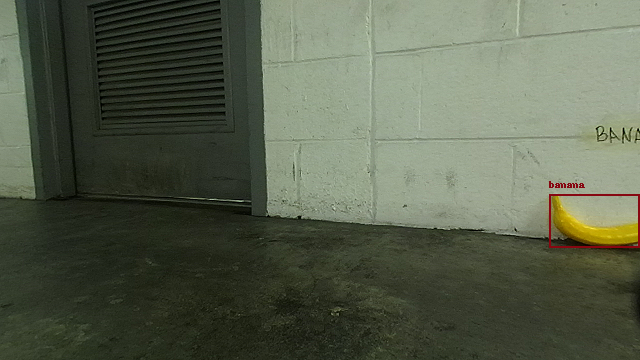
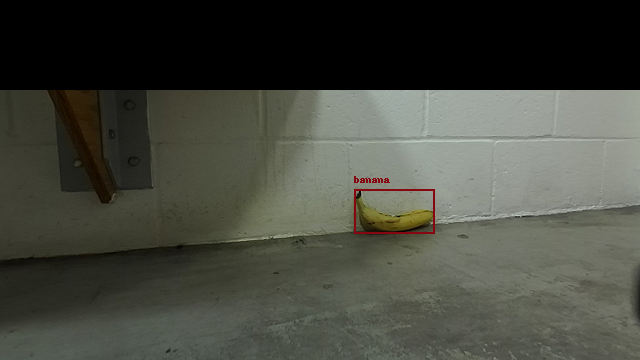
shrink ray back and forth

diff --git a/shrinkray_heist/shrinkray_heist/model/detection_node.py b/shrinkray_heist/shrinkray_heist/model/detection_node.py
@@ -14,14 +14,14 @@ from .detector import Detector #model.
 from shrinkray_heist.definitions import  Target, TripSegment, ObjectDetected, State
 from shrinkray_heist.homography_transformer import HomographyTransformer
 
-
+import time
 
 class DetectionNode(Node):
     def __init__(self):
         super().__init__("detector_node")
         # self.detector = Detector() # ON REAL RACECAR
         self.detector = Detector(yolo_dir='/home/racecar/models', from_tensor_rt=False)
-        self.detector.set_threshold(0.1)
+        self.detector.set_threshold(0.2)
         self.yolo_pub = self.create_publisher(Image, "/yolo_img", 10)
         self.image_sub = self.create_subscription(Image, "/zed/zed_node/rgb/image_rect_color", self.img_cb, 1)
         self.bridge = CvBridge()
@@ -39,12 +39,21 @@ class DetectionNode(Node):
         self.homography_transformer = HomographyTransformer() # instantiate homography transformer to get transform
         self.wheelbase_length = 0.33 # in meters
         self.count = 0
+        self.shrinkray_count = 1
         
         # self.drive_topic = self.get_parameter("drive_topic").get_parameter_value().string_value
         self.drive_pub = self.create_publisher(AckermannDriveStamped, "/vesc/high_level/input/nav_0", 10)
 
         self.get_logger().info("Shrink Ray Detector Initialized")
         
+        # for scanning for shrinkray
+        self.scan_sequence_started = False
+        self.shrinkray_active_start_time = 0
+        self.sequence_start_time = 0
+        self.scan_step = 0
+        self.angle = 0.0
+        self.direction = 1 # 1 for right, -1 for left
+
         self.debug = True
     def state_cb(self, msg):
         pass # for testing
@@ -62,6 +71,10 @@ class DetectionNode(Node):
             
             if self.shrinkray_detector_on:
                 self.get_logger().info("Detector: Shrink Ray Detector Activated")
+                
+                self.shrinkray_active_start_time = self.get_clock().now().nanoseconds / 1e9
+                self.scan_step = 0
+                self.scan_sequence_started = False
             else:
                 self.get_logger().info("Detector: Shrink Ray Detector Deactivated")
         
@@ -114,13 +127,140 @@ class DetectionNode(Node):
         self.drive_pub.publish(drive_msg)
         self.get_logger().info("Published steering angle")
         return L1
+    
+    def scan_sequence(self):
+        if not self.scan_sequence_started:
+            return
+
+        # self.scan_sequence_started = True
+
+        def send_drive(speed, angle, duration):
+            drive_msg = AckermannDriveStamped()
+            drive_msg.drive.steering_angle = speed
+            drive_msg.drive.speed = angle
+
+            end_time = self.get_clock().now().nanoseconds + int(duration * 1e9)
+            
+            while self.get_clock().now().nanoseconds < end_time:
+                self.drive_pub.publish(drive_msg)
+                self.get_logger().info(f"Scan Sequence: Driving with speed: {speed}, angle: {angle}")
+                time.sleep(0.1)
+            
+            # Stop the robot briefly
+            msg.drive.speed = 0.0
+            msg.drive.steering_angle = 0.0
+            self.drive_pub.publish(msg)
+            self.get_logger().info(f"Scan Sequence: Driving with speed: {speed}, angle: {angle}")
+            time.sleep(0.2)
+
+        # Repeat the pattern N times
+        repetitions = 3
+        for _ in range(repetitions):
+            # Step 1: Small backup
+            send_drive(-0.2, 0.0, 0.5)
+
+            # Step 2: Move forward
+            send_drive(0.2, 0.0, 0.5)
+
+            # Step 3: Turn slightly while moving forward
+            send_drive(0.2, 0.25, 0.6)
+
+        self.get_logger().info("Repeated scan maneuver completed.")
+
+    def execute_sequence(self):
+        # if not self.scan_sequence_started:
+        #     return
         
+        now = self.get_clock().now().nanoseconds / 1e9  # current time in seconds
+        elapsed = now - self.sequence_start_time
+
+        # Duration for each step in seconds
+        durations = [3.0, 2.0, 3.0, 1.0 , 3.0, 2.0, 3.0, 2.0]
+                # steps 0, 1, 2, 3, 4
+        msg = AckermannDriveStamped()
+
+        if self.scan_step == 0:
+            # Step 0: Back up
+            msg.drive.speed = -0.3
+            msg.drive.steering_angle = -0.5
+            self.get_logger().info(f"Step: {self.scan_step}, Scan Sequence: Moving with speed: {msg.drive.speed}, angle: {msg.drive.steering_angle}")
+        elif self.scan_step == 1: # pause!
+            msg.drive.speed = 0.0
+            msg.drive.steering_angle = 0.0 #self.angle
+            self.get_logger().info(f"Step: {self.scan_step}, Scan Sequence: Moving with speed: {msg.drive.speed}, angle: {msg.drive.steering_angle}")
+
+        elif self.scan_step == 2:
+            # Step 1: Move forward
+            msg.drive.speed = 0.3
+            msg.drive.steering_angle = -0.5 #self.angle
+            self.get_logger().info(f"Step: {self.scan_step}, Scan Sequence: Moving with speed: {msg.drive.speed}, angle: {msg.drive.steering_angle}")
+        elif self.scan_step == 3: # pause!
+            msg.drive.speed = 0.0
+            msg.drive.steering_angle = 0.0 #self.angle
+            self.get_logger().info(f"Step: {self.scan_step}, Scan Sequence: Moving with speed: {msg.drive.speed}, angle: {msg.drive.steering_angle}")
+
+        elif self.scan_step == 4:
+            # Step 0: Back up
+            msg.drive.speed = -0.3
+            msg.drive.steering_angle = 0.5
+            self.get_logger().info(f"Step: {self.scan_step}, Scan Sequence: Moving with speed: {msg.drive.speed}, angle: {msg.drive.steering_angle}")
+        elif self.scan_step == 5: # pause!
+            msg.drive.speed = 0.0
+            msg.drive.steering_angle = 0.0 #self.angle
+        elif self.scan_step == 6:
+            # Step 1: Move forward
+            msg.drive.speed = 0.3
+            msg.drive.steering_angle = 0.5 #self.angle
+            self.get_logger().info(f"Step: {self.scan_step}, Scan Sequence: Moving with speed: {msg.drive.speed}, angle: {msg.drive.steering_angle}")
+        elif self.scan_step == 7: # pause!
+            # Step 2: Turn slightly while moving forward
+            msg.drive.speed = 0.0 #-0.3
+            msg.drive.steering_angle = 0.0 #-self.angle
+            self.get_logger().info(f"Step: {self.scan_step}, Scan Sequence: Moving with speed: {msg.drive.speed}, angle: {msg.drive.steering_angle}")
+
+        self.drive_pub.publish(msg)
+
+        
+
+        if elapsed >= durations[self.scan_step] and self.scan_step < (len(durations)-1):
+            # Move to the next step after the duration
+            self.scan_step += 1
+            self.sequence_start_time = now
+            return "looking"
+
+        if self.scan_step == len(durations)-1:
+            self.get_logger().info("Sequence complete, uh, no banana then?")
+            return "no_banana"
+        # else:
+        #     return "looking"
+            # if self.scan_step == (len(durations)-1):
+                # Reset for next cycle
+                # self.scan_step = 0
+                # self.angle += self.direction * 0.1
+                # if abs(self.angle) > 0.3:
+                #     self.direction *= -1
+                #     self.angle += self.direction * 0.1  # Adjust within range
+                
+            # Call again for the next step if active
+            # if self.scan_sequence_started:
+            #     self.execute_sequence()
+
     def img_cb(self, img_msg):
         if not self.trafficlight_detector_on and not self.shrinkray_detector_on:
             return
 
         # Process image with CV Bridge
         image = self.bridge.imgmsg_to_cv2(img_msg, "bgr8")
+        # image = image[200:400, :]
+        # output = np.zeros_like(image)
+        # output[120:330, :] = image[120:240, :]
+        # image = output
+        output = image.copy()
+        height = output.shape[0]
+
+        # Blacken the top third
+        output[:height // 4, :] = 0 
+        image = output
         # image_rgb = self.bridge.imgmsg_to_cv2(img_msg, "rgb8")
         if self.count == 0:
             save_path = os.path.join(os.path.dirname(__file__), f"ros_imagetocv2TEST.png")
@@ -130,7 +270,33 @@ class DetectionNode(Node):
         # rgb_image = cv2.cvtColor(image, cv2.COLOR_BGR2RGB)
         # cv2.imwrite(save_path, rgb_image)
         # self.get_logger().info(f"CV BRIDGE Image: {image.shape}")
+
+        # Record how long shrink ray has been on for 
+        now = self.get_clock().now().nanoseconds / 1e9
+        if self.shrinkray_detector_on and not self.trafficlight_detector_on and ((now - self.shrinkray_active_start_time) > 5): # if no banana detected for 5 seconds, start scan sequence
+            self.get_logger().info("No banana detected for 5 seconds, starting scan sequence")
+            
+            if not self.scan_sequence_started: # so that start time set once
+                self.sequence_start_time = self.get_clock().now().nanoseconds / 1e9
+                self.scan_sequence_started = True
+            
+            # self.scan_step += 1
+              # Current time in seconds
+            scan_state = self.execute_sequence()
+            if scan_state == "no_banana":
+                
+                self.get_logger().info("Scan sequence complete, no banana detected")
         
+            # self.scan_sequence_started = True
+            # drive_msg = AckermannDriveStamped()
+            # drive_msg.drive.steering_angle = 0.2
+            # drive_msg.drive.speed = -0.3
+            # self.drive_pub.publish(drive_msg)
+            
+            # self.scan_sequence()
+            
+            self.get_logger().info("Scan sequence started")
+
         try:
             results = self.detector.predict(image) #image
             
@@ -178,6 +344,8 @@ class DetectionNode(Node):
                 
                 elif self.shrinkray_detector_on and not self.trafficlight_detector_on:
                     self.get_logger().info(f"Detected {label} at {bbox}")
+                    
+                        # self.shrinkray_active_start_time = 0
                     if label == 'banana':
                         # Get the bounding box coordinates 
                         self.shrinkray_bbox = [bbox[0], bbox[1], bbox[2], bbox[3]] # x1, y1, x2, y2 = shrinkray_bbox
@@ -191,7 +359,9 @@ class DetectionNode(Node):
                         if dist_to_shrinkray < 1.0: # in meters
                             self.get_logger().info("Arrived at shrink ray location, stopping")
                             # Save the image with the bounding box to directory
-                            save_path = f"{os.path.dirname(__file__)}/shrinkray_detected_.png"
+                            save_path = f"{os.path.dirname(__file__)}/shrinkray_detected_{self.shrinkray_count}.png"
+                            self.shrinkray_count += 1
+                            
                             out.save(save_path)
                             self.get_logger().info(f"Saved shrinkray image to {save_path}!")
                             
@@ -239,8 +409,12 @@ class DetectionNode(Node):
         # Convert from BGR to HSV
         # hsv = cv2.cvtColor(image, cv2.COLOR_BGR2HSV)
         hsv = cv2.cvtColor(image, cv2.COLOR_RGB2HSV)
+        bgr_from_hsv = cv2.cvtColor(hsv, cv2.COLOR_HSV2BGR)
+        
         save_path = os.path.join(os.path.dirname(__file__), f"traffic_light_hsv.png") #{traffic_color}
         cv2.imwrite(save_path, hsv)
+        save_path = os.path.join(os.path.dirname(__file__), f"traffic_light_hsv_toBGR.png") #{traffic_color}
+        cv2.imwrite(save_path, bgr_from_hsv)
         
         def get_centroid(mask):
             # Find moments of the mask to calculate centroid

diff --git a/shrinkray_heist/shrinkray_heist/trajectory_planner.py b/shrinkray_heist/shrinkray_heist/trajectory_planner.py
@@ -88,11 +88,14 @@ class PathPlan(Node):
 
         self.trajectory = LineTrajectory(node=self, viz_namespace="/planned_trajectory")
         
+        self.init_map()
         
+    def init_map(self):
         
         
 
     def map_cb(self, msg):
+        pass
 
         map = msg.data
         self.get_logger().info(f"PathPlan: ORIGINAL Map data length: {msg.info.height}x {msg.info.width}")
@@ -120,6 +123,8 @@ class PathPlan(Node):
             height=msg.info.height)
         # self.map *= 100
         self.convert_map_to_publisher_format()
+        
+    def load_map_from_img(self.filename,width,height)
     def save_map_as_img(self, filename,width, height):
         """
         Save the map as an image file.
